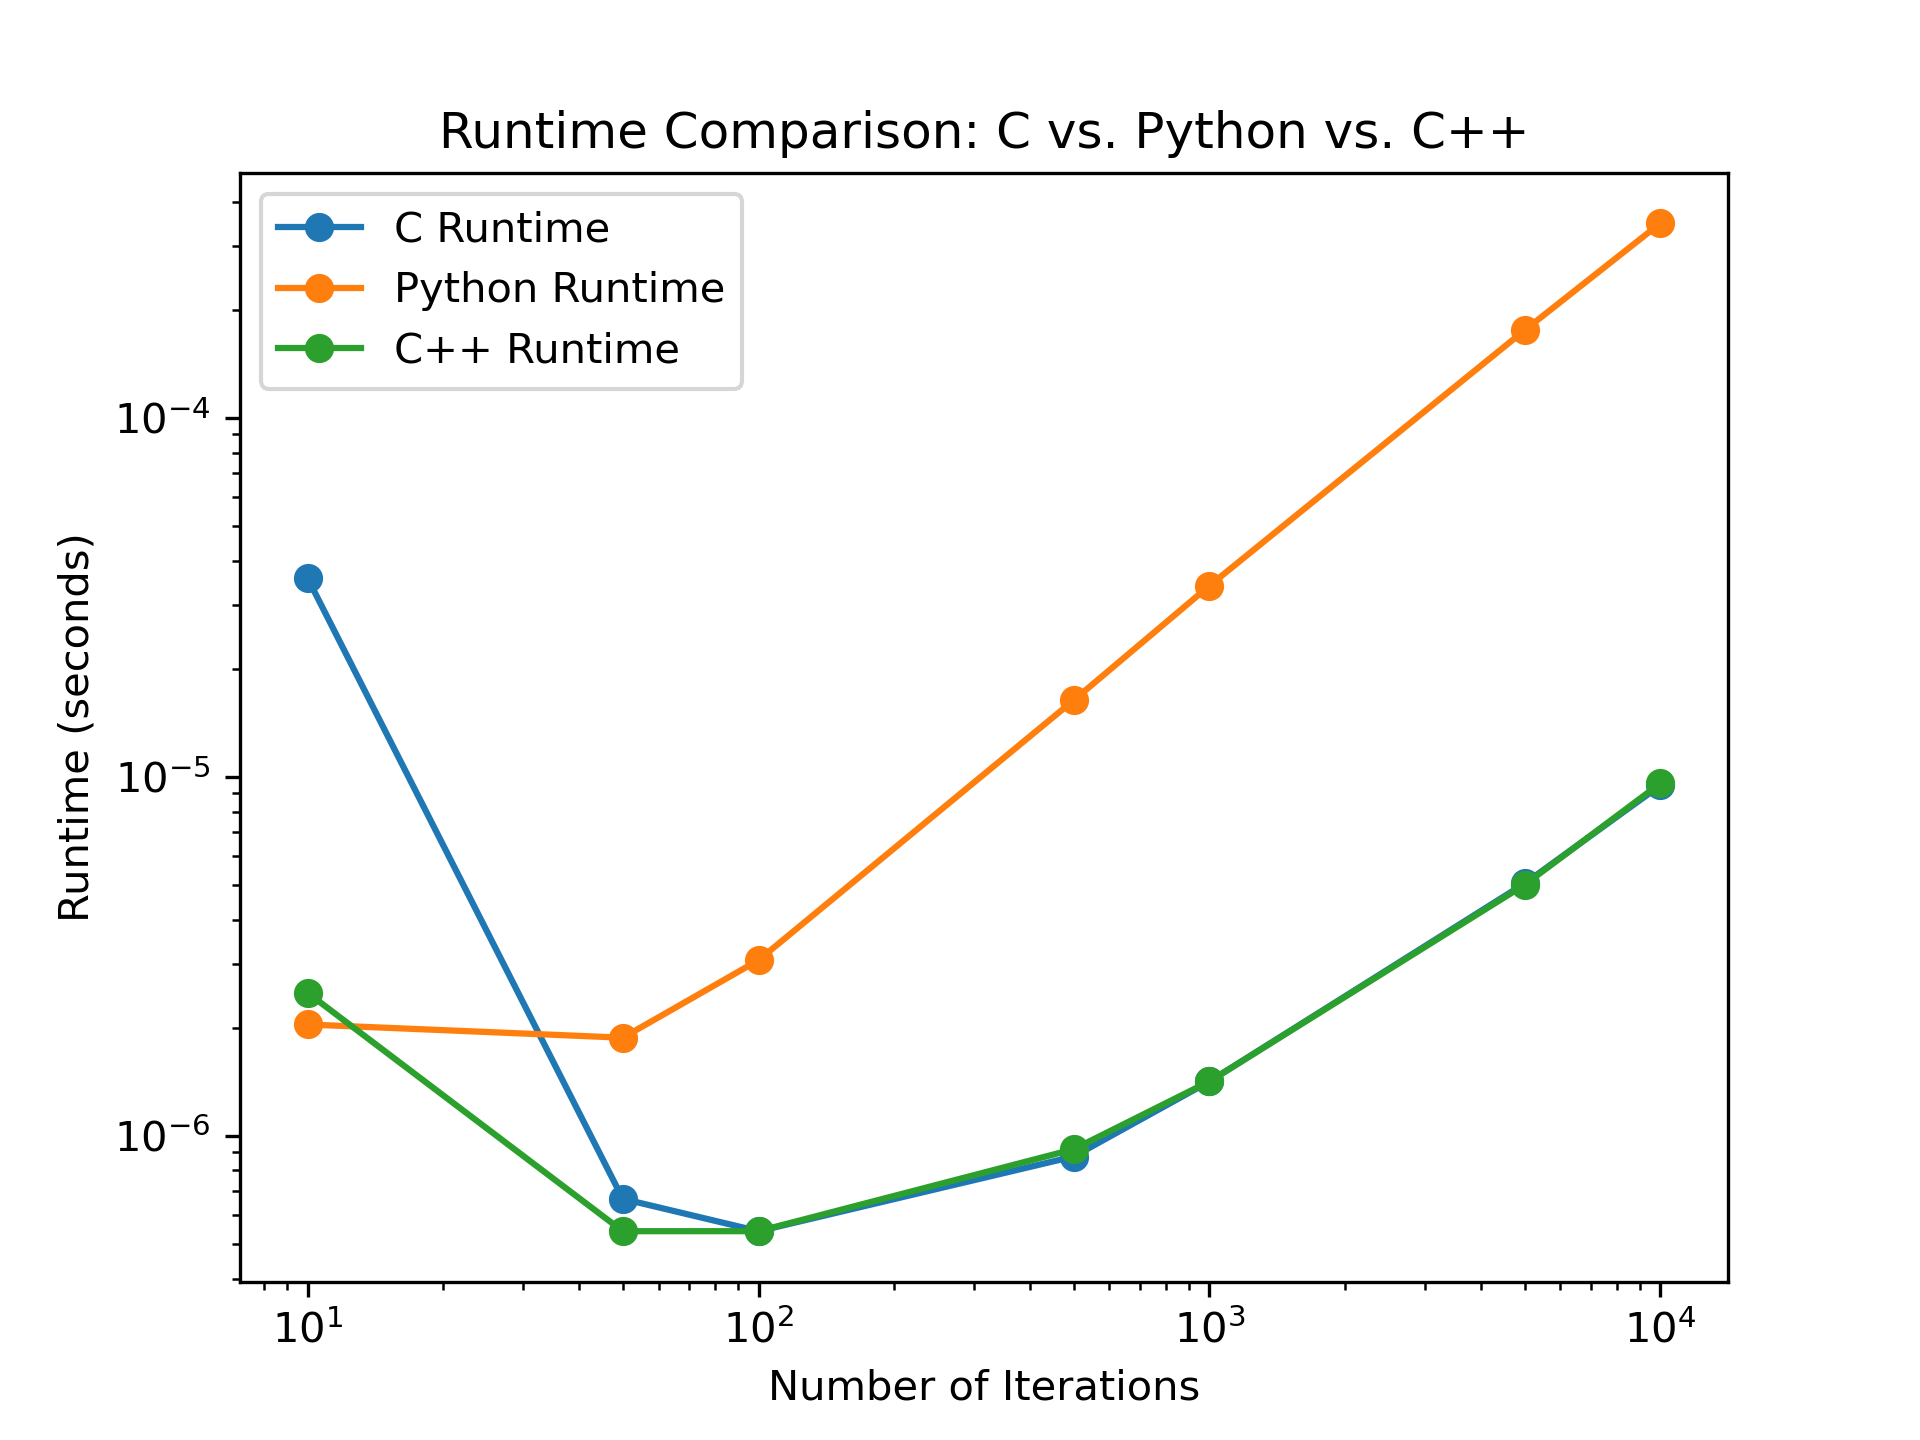
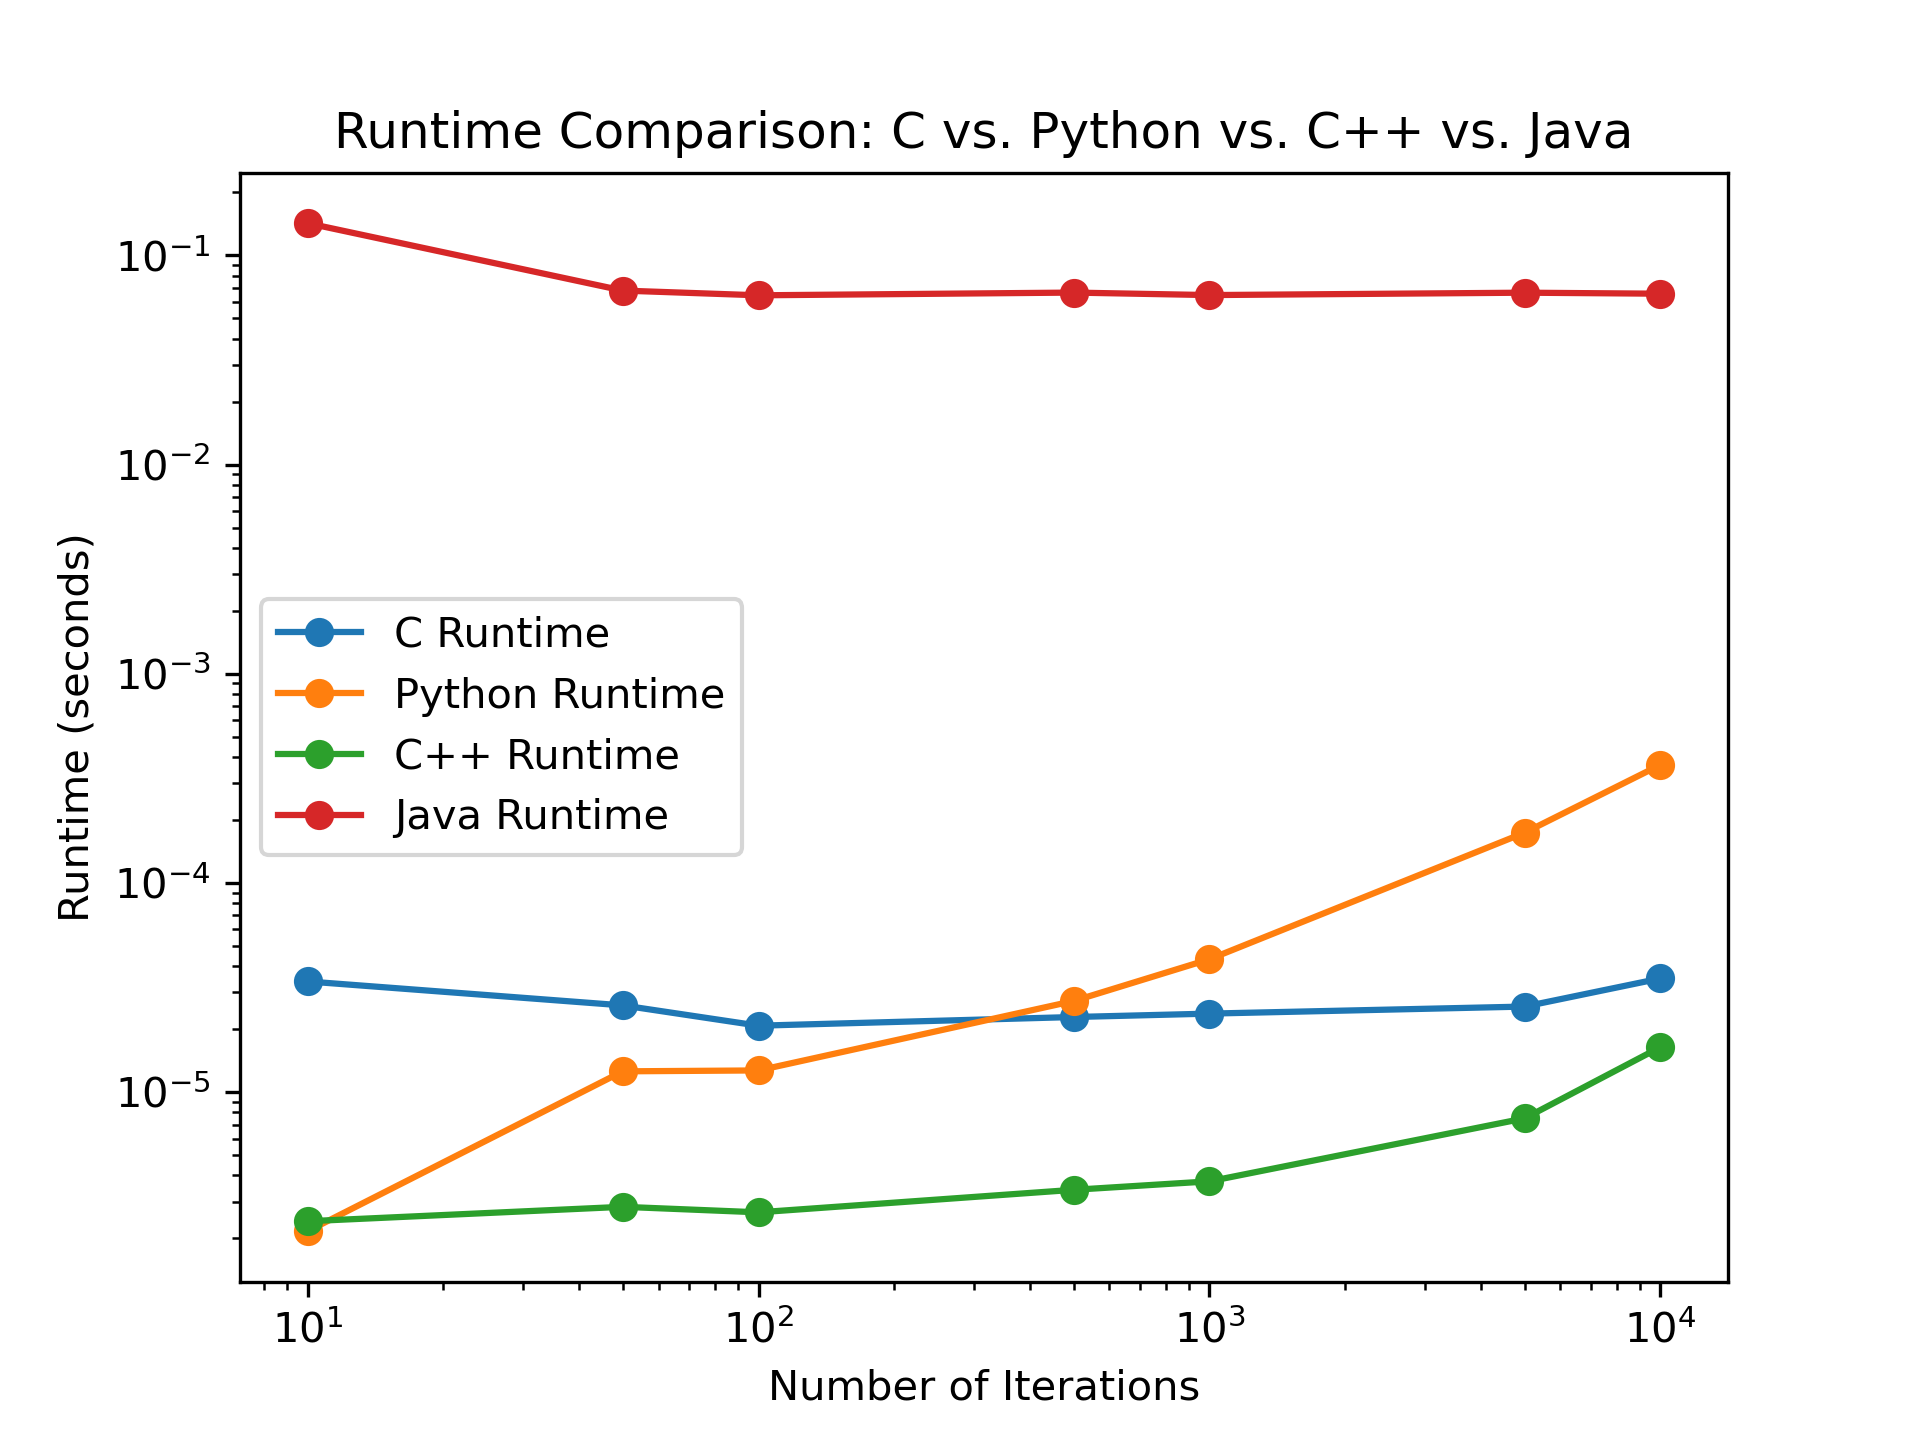
added Java to compare, updated code and readme.md based on addtion of java

diff --git a/scripts/compare_runtime.py b/scripts/compare_runtime.py
@@ -1,17 +1,19 @@
 import ctypes
 import os
 import time
+import subprocess
 
-# Paths to shared libraries
+# Paths to shared libraries and Java class
 current_dir = os.path.dirname(__file__)
 loop_so_path = os.path.join(current_dir, '../compiled/loop.so')
 loop_cpp_so_path = os.path.join(current_dir, '../compiled/loop_cpp.so')
+java_class_path = os.path.join(current_dir, '../compiled')
 
 # Load shared libraries
 loop_c = ctypes.CDLL(loop_so_path)
 loop_cpp = ctypes.CDLL(loop_cpp_so_path)
 
-# Define argument and return types
+# Define argument and return types for C and C++
 loop_c.perform_loop.argtypes = [ctypes.c_int, ctypes.c_double]
 loop_c.perform_loop.restype = ctypes.c_double
 
@@ -25,44 +27,51 @@ def python_loop(iterations, seed):
         result += 1
     return result
 
+# Java function wrapper
+def java_loop(iterations, seed):
+    command = [
+        "java",
+        "-cp",
+        java_class_path,
+        "Loop",
+        str(iterations),
+        str(seed)
+    ]
+    start_time = time.perf_counter()
+    result = subprocess.check_output(command, text=True).strip()
+    end_time = time.perf_counter()
+    return float(result), end_time - start_time
+
 # Compare runtimes
 def compare_runtimes():
     iterations = 1000000000
     seed = 1.00001
-    num_runs = 100  # Averaging over 100 runs
 
     # C runtime
     print("Running loop in C...")
-    total_c_time = 0
-    for _ in range(num_runs):
-        start_time = time.perf_counter()
-        result_c = loop_c.perform_loop(iterations, seed)
-        total_c_time += time.perf_counter() - start_time
-    avg_c_time = total_c_time / num_runs
-    print(f"Final result after {iterations} iterations: {result_c:.6f}")
-    print(f"Average C runtime over {num_runs} runs: {avg_c_time:.6f} seconds\n")
+    start_time = time.perf_counter()
+    result_c = loop_c.perform_loop(iterations, seed)
+    c_runtime = time.perf_counter() - start_time
+    print(f"C runtime: {c_runtime:.6f} seconds, Result: {result_c:.6f}")
 
     # Python runtime
     print("Running loop in Python...")
-    total_py_time = 0
-    for _ in range(num_runs):
-        start_time = time.perf_counter()
-        result_py = python_loop(iterations, seed)
-        total_py_time += time.perf_counter() - start_time
-    avg_py_time = total_py_time / num_runs
-    print(f"Final result after {iterations} iterations: {result_py:.6f}")
-    print(f"Average Python runtime over {num_runs} runs: {avg_py_time:.6f} seconds\n")
+    start_time = time.perf_counter()
+    result_py = python_loop(iterations, seed)
+    python_runtime = time.perf_counter() - start_time
+    print(f"Python runtime: {python_runtime:.6f} seconds, Result: {result_py:.6f}")
 
     # C++ runtime
     print("Running loop in C++...")
-    total_cpp_time = 0
-    for _ in range(num_runs):
-        start_time = time.perf_counter()
-        result_cpp = loop_cpp.perform_loop(iterations, seed)
-        total_cpp_time += time.perf_counter() - start_time
-    avg_cpp_time = total_cpp_time / num_runs
-    print(f"Final result after {iterations} iterations: {result_cpp:.6f}")
-    print(f"Average C++ runtime over {num_runs} runs: {avg_cpp_time:.6f} seconds\n")
+    start_time = time.perf_counter()
+    result_cpp = loop_cpp.perform_loop(iterations, seed)
+    cpp_runtime = time.perf_counter() - start_time
+    print(f"C++ runtime: {cpp_runtime:.6f} seconds, Result: {result_cpp:.6f}")
+
+    # Java runtime
+    print("Running loop in Java...")
+    result_java, java_runtime = java_loop(iterations, seed)
+    print(f"Java runtime: {java_runtime:.6f} seconds, Result: {result_java:.6f}")
 
 if __name__ == "__main__":
     compare_runtimes()

diff --git a/scripts/compare_runtime_plot.py b/scripts/compare_runtime_plot.py
@@ -1,68 +1,91 @@
 import ctypes
 import os
 import time
+import subprocess
 import matplotlib.pyplot as plt
 
-# Dynamically compute paths to the shared libraries
+# Paths to shared libraries and Java class
 current_dir = os.path.dirname(__file__)
 loop_so_path = os.path.join(current_dir, '../compiled/loop.so')
 loop_cpp_so_path = os.path.join(current_dir, '../compiled/loop_cpp.so')
+java_class_path = os.path.join(current_dir, '../compiled')
 
-# Load the shared libraries
+# Load shared libraries
 loop_c = ctypes.CDLL(loop_so_path)
 loop_cpp = ctypes.CDLL(loop_cpp_so_path)
 
-# Define function arguments and return types
+# Define argument and return types for C and C++
 loop_c.perform_loop.argtypes = [ctypes.c_int, ctypes.c_double]
-loop_c.perform_loop.restype = None
+loop_c.perform_loop.restype = ctypes.c_double
 
 loop_cpp.perform_loop.argtypes = [ctypes.c_int, ctypes.c_double]
-loop_cpp.perform_loop.restype = None
+loop_cpp.perform_loop.restype = ctypes.c_double
 
-# Python loop logic
+# Python function
 def python_loop(iterations, seed):
     result = seed
     for _ in range(iterations):
         result += 1
     return result
 
-# Compare runtimes for varying iteration counts
+# Java function wrapper
+def java_loop(iterations, seed):
+    command = [
+        "java",
+        "-cp",
+        java_class_path,
+        "Loop",
+        str(iterations),
+        str(seed)
+    ]
+    start_time = time.perf_counter()
+    result = subprocess.check_output(command, text=True).strip()
+    end_time = time.perf_counter()
+    return float(result), end_time - start_time
+
+# Compare runtimes across iteration counts
 iteration_values = [10, 50, 100, 500, 1000, 5000, 10000]
 runtimes_c = []
 runtimes_python = []
 runtimes_cpp = []
+runtimes_java = []
 
 seed = 1.00001
 
 for iterations in iteration_values:
-    # Measure C runtime
+    # C runtime
     start_c = time.perf_counter()
     loop_c.perform_loop(iterations, seed)
     end_c = time.perf_counter()
     runtimes_c.append(end_c - start_c)
 
-    # Measure Python runtime
+    # Python runtime
     start_py = time.perf_counter()
     python_loop(iterations, seed)
     end_py = time.perf_counter()
     runtimes_python.append(end_py - start_py)
 
-    # Measure C++ runtime
+    # C++ runtime
     start_cpp = time.perf_counter()
     loop_cpp.perform_loop(iterations, seed)
     end_cpp = time.perf_counter()
     runtimes_cpp.append(end_cpp - start_cpp)
+
+    # Java runtime
+    _, java_time = java_loop(iterations, seed)
+    runtimes_java.append(java_time)
 
 # Plot the runtimes
 plt.figure()
 plt.plot(iteration_values, runtimes_c, label="C Runtime", marker='o')
 plt.plot(iteration_values, runtimes_python, label="Python Runtime", marker='o')
 plt.plot(iteration_values, runtimes_cpp, label="C++ Runtime", marker='o')
+plt.plot(iteration_values, runtimes_java, label="Java Runtime", marker='o')
 plt.xscale('log')
 plt.yscale('log')
 plt.xlabel("Number of Iterations")
 plt.ylabel("Runtime (seconds)")
-plt.title("Runtime Comparison: C vs. Python vs. C++")
+plt.title("Runtime Comparison: C vs. Python vs. C++ vs. Java")
 plt.legend()
 
 # Save and show the plot

diff --git a/src/Loop.java b/src/Loop.java
@@ -1,0 +1,22 @@
+public class Loop {
+    public static double performLoop(int iterations, double seed) {
+        double result = seed;
+        for (int i = 0; i < iterations; i++) {
+            result += 1;
+        }
+        return result;
+    }
+
+    public static void main(String[] args) {
+        if (args.length < 2) {
+            System.out.println("Usage: java Loop <iterations> <seed>");
+            return;
+        }
+
+        int iterations = Integer.parseInt(args[0]);
+        double seed = Double.parseDouble(args[1]);
+
+        double result = performLoop(iterations, seed);
+        System.out.println(result);
+    }
+}

diff --git a/wrappers/loop_java_wrapper.py b/wrappers/loop_java_wrapper.py
@@ -1,0 +1,15 @@
+import subprocess
+import time
+
+def run_java_loop(iterations):
+    java_command = [
+        "java",
+        "-cp",
+        "../compiled",
+        "Loop",
+        str(iterations)
+    ]
+    start_time = time.time()
+    result = subprocess.check_output(java_command, text=True).strip()
+    runtime = time.time() - start_time
+    return float(result), runtime

diff --git a/README.md b/README.md
@@ -1,6 +1,6 @@
-# Performance Comparison: C, Python, and C++
+# Performance Comparison: C, C++, Python, and Java
 
-This project compares the runtime performance of iterative computations in C, Python, and C++. It demonstrates the use of Python's `ctypes` library for cross-language integration and highlights the performance benefits of compiled languages over interpreted ones.
+This project compares the runtime performance of iterative computations in C, C++, Python, and Java. It demonstrates the use of Python's `ctypes` library for cross-language integration and highlights the performance differences between compiled and interpreted languages.
 
 ## Table of Contents
 1. [Overview](#overview)
@@ -9,38 +9,45 @@ This project compares the runtime performance of iterative computations in C, Py
 4. [Setup](#setup)
 5. [How to Run](#how-to-run)
 6. [Results](#results)
-7. [License](#license)
+7. [Lessons Learned](#lessons-learned)
+8. [License](#license)
 
 ## Overview
-This project explores runtime differences between C, Python, and C++ by:
+This project explores runtime differences between C, C++, Python, and Java by:
 - Writing shared libraries (`.so` files) in C and C++.
 - Calling these libraries from Python using the `ctypes` module.
 - Measuring and comparing runtimes across these languages.
+- Integrating Java for an additional runtime comparison.
 
 ## Features
-- Cross-language integration using `ctypes`.
+- Cross-language integration using `ctypes` and `subprocess`.
 - Performance benchmarking for iterative computations.
 - Logarithmic runtime comparison plots.
+- Demonstrates Java's runtime performance alongside C, C++, and Python.
 
 ## Requirements
 - GCC or Clang (for compiling C and C++ files)
 - Python 3.x
+- Java Development Kit (JDK)
 - Python modules:
   - `matplotlib`
 
 ## Setup
 1. Clone the repository:
    ```bash
-   git clone https://github.com/your-username/performance-comparison-c-python-cpp.git
-   cd performance-comparison-c-python-cpp
+   git clone https://github.com/your-username/performance-comparison-c-python-cpp-java.git
+   cd performance-comparison-c-python-cpp-java
 
 2. Compile the C and C++ source files into shared libraries:
    ```bash
    gcc -shared -o compiled/loop.so -fPIC src/loop.c
    g++ -shared -o compiled/loop_cpp.so -fPIC src/loop.cpp
-   gcc -shared -o compiled/big_loop.so -fPIC src/big_loop.c
 
-3. Install Python dependencies:
+3. Compile the Java file:
+   ```bash
+   javac -d compiled src/Loop.java
+
+4. Install Python dependencies:
    ```bash
    pip install matplotlib
 
@@ -56,18 +63,27 @@ This project explores runtime differences between C, Python, and C++ by:
    `python scripts/compare_runtime.py`
 
 ## Example Output
-- The runtime comparison script will print runtimes for each language.
-- The plot will display the results and save as `runtime_comparison.png`.
+- **Text Output**: The `compare_runtime.py` script prints the runtime for each language along with the final result.
+   ```bash
+   Running loop in C...
+   C runtime: 0.000040 seconds, Result: 10001.000010
+   Running loop in Python...
+   Python runtime: 0.000397 seconds, Result: 10001.000010
+   Running loop in C++...
+   C++ runtime: 0.000015 seconds, Result: 10001.000010
+   Running loop in Java...
+   Java runtime: 0.000045 seconds, Result: 10001.000010
+- **Plot Output**: The compare_runtime_plot.py script generates a runtime_comparison.png file showing the runtime comparison on a logarithmic scale.
 
 ## Results
-- C and C++: Near-identical runtimes due to similar compilation processes.
-- Python: Significantly slower, demonstrating the overhead of interpreted languages.
-- Plot: Logarithmic plot for runtime comparison over varying iteration counts.
+- **C and C++**: Near-identical runtimes due to similar compilation processes.
+- **Java**: Competitive runtime due to Just-In-Time (JIT) compilation but slightly slower than C/C++.
+- **Python**: Significantly slower, demonstrating the overhead of interpreted languages.
 
 ## Lessons Leanred
-- Cross-language integration is effective for combining performance and flexibility.
-- Python is slower but easier to use for high-level tasks.
-- Using `ctypes` is an efficient way to integrate C and C++ with Python.
+- **Cross-Language Integration**: Combining Python with C/C++/Java leverages performance and flexibility.
+- **Performance Tradeoffs**: Compiled languages (C, C++, Java) excel in performance, while Python offers ease of development.
+- **Effective Use of Tools**: `ctypes` and `subprocess` enable seamless integration across languages.
 
 ## License
 This project is licensed under the MIT License.
